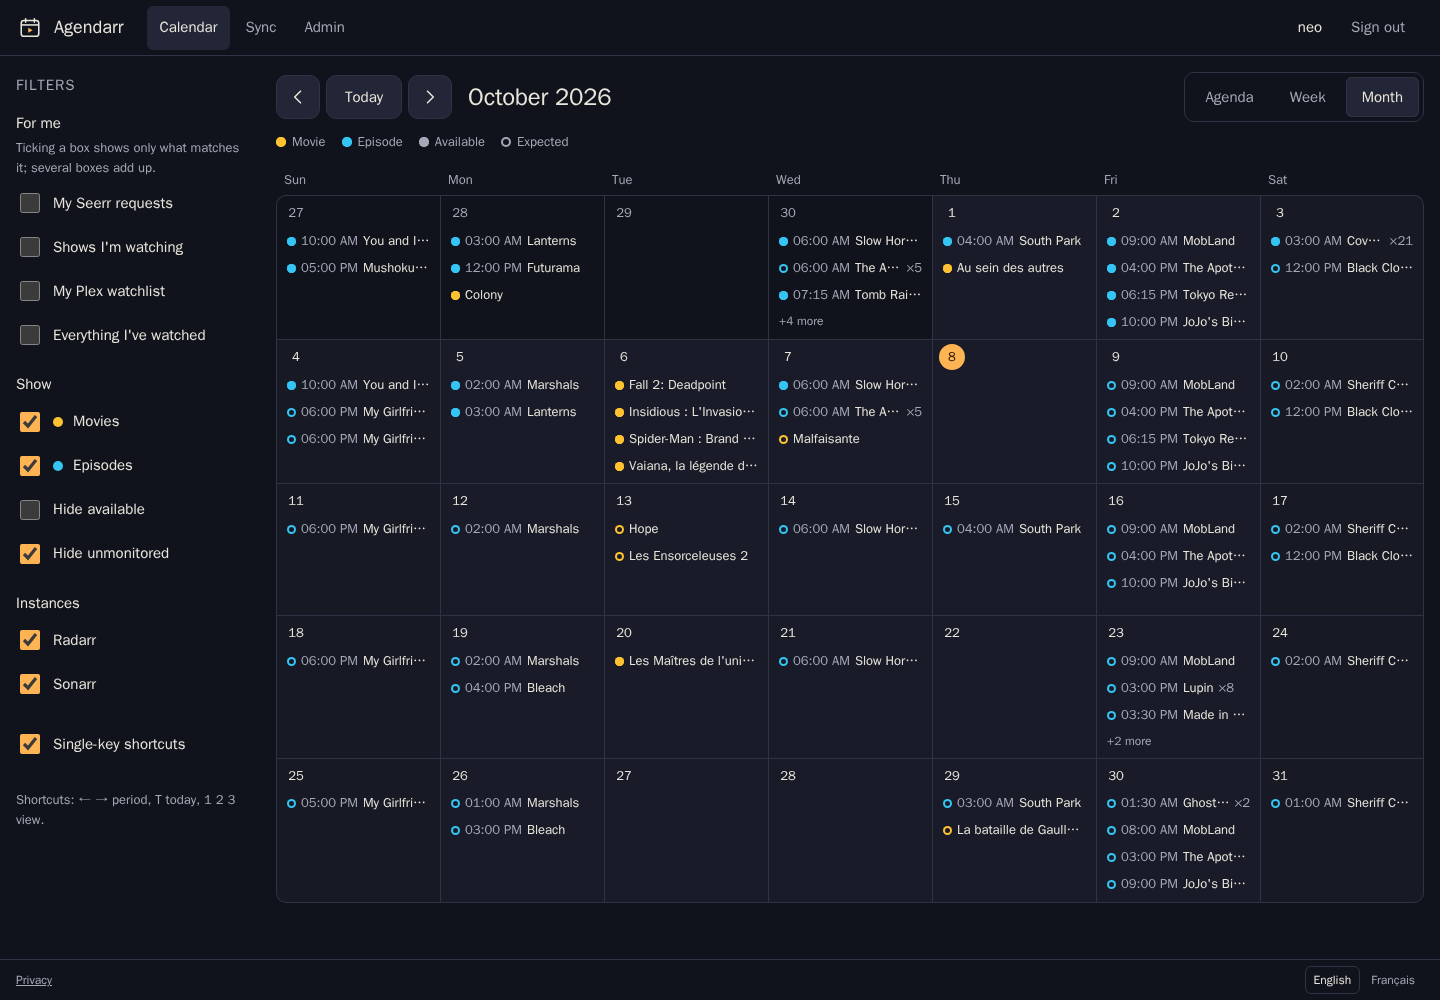
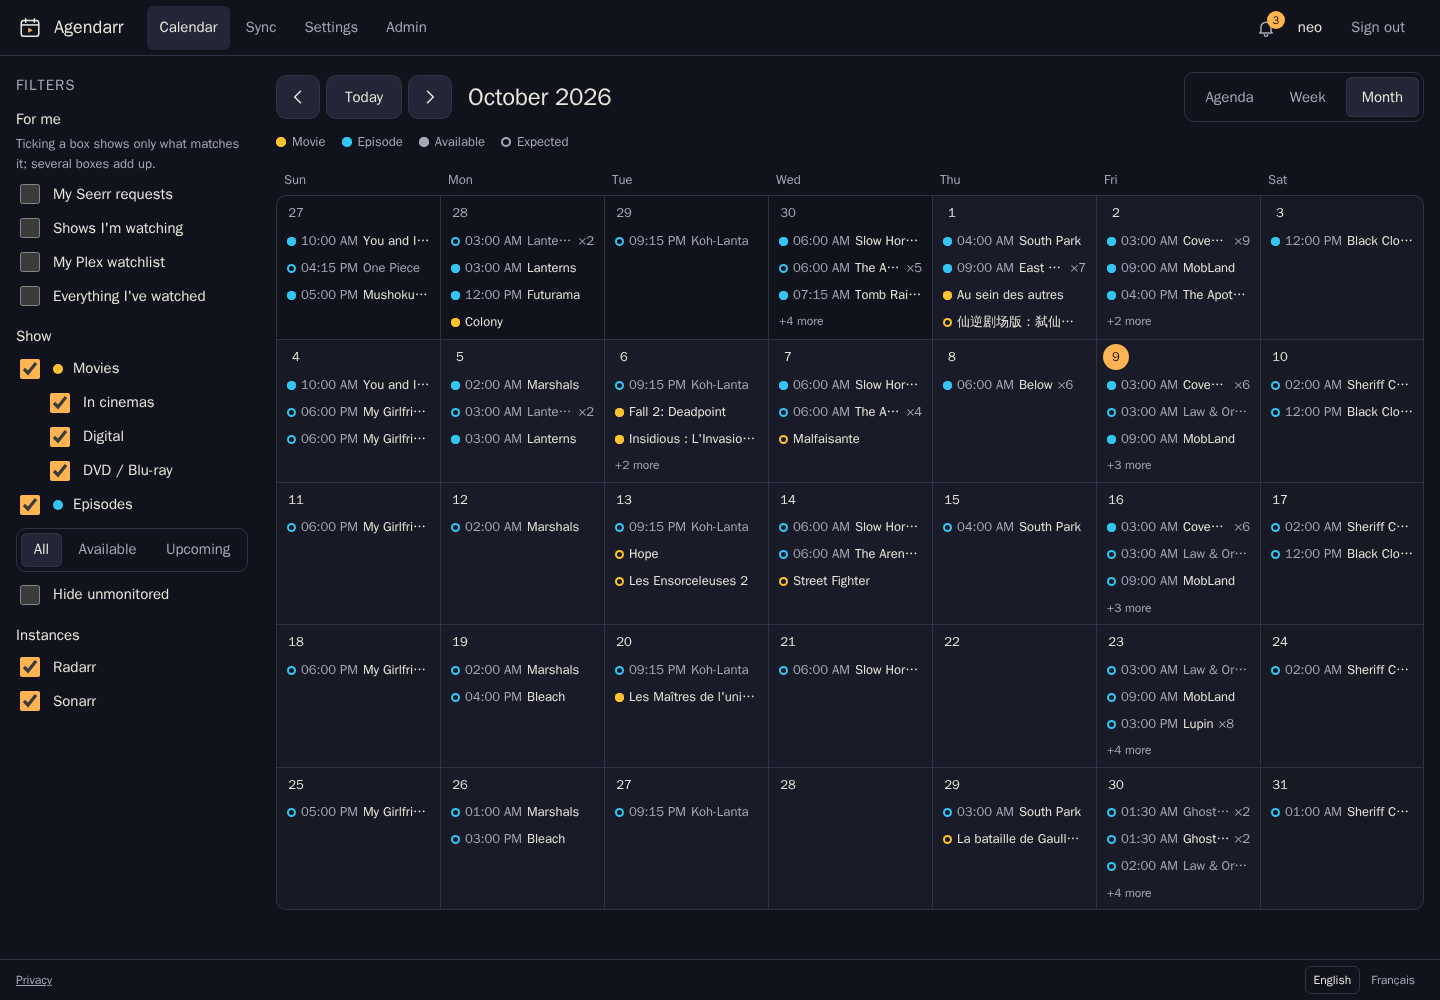
docs: README for v0.4; privacy page and "label in name" fixes
README: notifications, Settings, file formats from Plex (logos or
text), season rings, release-type filter, public addresses of
instances, outbound needs (plex.tv, browsers' push services), backups
holding the Web Push key, troubleshooting for Plex links and device
notifications, and how the watcher and Web Push work. New screenshots
(week view with a file card, season rings, bell, settings, phone
detail), the old ones retaken with the new navigation.

The privacy page said nothing left the server but for Plex; it now
names the browsers' push services (encrypted messages only) and lists
follows, notifications and push subscriptions among stored data.

axe (WCAG 2.2 AA) on every page and state, desktop and phone, light and
dark, French and English: 0 violations. It found one: calendar items
were named by a separate label that did not start with their visible
text (2.5.3, label in name); cards are now named by their own text and
month chips by their text followed by the rest for screen readers.

diff --git a/web/static/js/calendar.js b/web/static/js/calendar.js
@@ -200,19 +200,28 @@
 
   // --- items -------------------------------------------------------------------
   // Compact chip for month cells.
+  // Its accessible name starts with what it shows (time, title), then what a
+  // narrow cell leaves out, so a voice command naming the title hits it
+  // (WCAG 2.5.3, label in name).
   const chip = (e) => el("button", {
-    type: "button", class: `chip is-${e.kind} is-${statusOf(e)}`, "aria-label": describe(e), title: describe(e), "data-id": e.id,
+    type: "button", class: `chip is-${e.kind} is-${statusOf(e)}`, title: describe(e), "data-id": e.id,
     onclick: () => openDetail(e),
   },
   el("span", { class: "chip-dot", "aria-hidden": "true" }),
   timeOf(e) ? el("span", { class: "chip-time", text: timeOf(e) }) : null,
   el("span", { class: "chip-title", text: e.title }),
-  e.bundle ? el("span", { class: "chip-code", text: `×${e.bundle.length}` }) : null);
+  e.bundle ? el("span", { class: "chip-code", "aria-hidden": "true", text: `×${e.bundle.length}` }) : null,
+  el("span", { class: "sr-only", text: ", " + [
+    e.kind === "episode" ? (e.bundle ? `${code(e)} (${t("cal.episodes_n", { n: e.bundle.length })})` : code(e)) : null,
+    e.kind === "episode" && !e.bundle && e.epTitle ? e.epTitle : null,
+    ...tagsOf(e), t("cal.status_" + statusOf(e)),
+  ].filter(Boolean).join(", ") }));
 
   // Card with poster for week and agenda.
   const statusEl = (e) => el("span", { class: `status status-${statusOf(e)}`, text: t("cal.status_" + statusOf(e)) });
   const card = (e, size) => el("button", {
-    type: "button", class: `card card-${size} is-${e.kind} is-${statusOf(e)}`, "aria-label": describe(e), "data-id": e.id,
+    // Named by its own text (WCAG 2.5.3): title, episode, time, tags, status.
+    type: "button", class: `card card-${size} is-${e.kind} is-${statusOf(e)}`, "data-id": e.id,
     onclick: () => openDetail(e),
   },
   (() => {

diff --git a/README.md b/README.md
@@ -6,8 +6,8 @@
 
 **The release calendar for your Plex household.**
 
-Radarr, Sonarr and Seerr in one calendar. Everyone signs in with their Plex account
-and sees everything that's coming, or just what they care about.
+Radarr, Sonarr and Seerr in one calendar. Everyone signs in with their Plex account,
+sees what's coming or just what they care about, and gets told when it lands.
 
 [![CI](https://github.com/neotoxicfr/agendarr/actions/workflows/ci.yml/badge.svg?branch=dev)](https://github.com/neotoxicfr/agendarr/actions/workflows/ci.yml)
 [![Release](https://img.shields.io/badge/release-v0.4.0-blue)](https://github.com/neotoxicfr/agendarr/releases)
@@ -30,42 +30,61 @@ and only the admin can open them. Agendarr gives the whole household one calenda
 - **Everyone gets their own view.** *My Seerr requests*, *shows I'm watching*,
   *my Plex watchlist*, *everything I've watched*: each person ticks what they want.
 - **It goes where people already look.** A personal iCal link puts releases in
-  Apple Calendar, Google Calendar or Outlook, with that person's filters applied.
+  Apple Calendar, Google Calendar or Outlook, with that person's filters applied,
+  and a notification arrives when something they asked for is ready to watch.
 
 <table>
   <tr>
-    <td width="33%"><img src="docs/screenshots/phone-agenda.png" alt="Agenda view on a phone, with posters, episode codes and status"></td>
-    <td width="33%"><img src="docs/screenshots/phone-detail.png" alt="Release details in a bottom sheet on a phone"></td>
-    <td width="33%"><img src="docs/screenshots/phone-sync.png" alt="Calendar subscription page with Apple, Google and Outlook buttons"></td>
+    <td width="25%"><img src="docs/screenshots/phone-agenda.png" alt="Agenda view on a phone, with posters, episode codes and status"></td>
+    <td width="25%"><img src="docs/screenshots/phone-detail.png" alt="Release details on a phone: Ultra HD, Dolby Vision, HDR10+, Dolby Atmos logos and the audio and subtitle languages as flags"></td>
+    <td width="25%"><img src="docs/screenshots/phone-settings.png" alt="Settings page: formats as logos or text, See on links, keyboard, notification sources and this device"></td>
+    <td width="25%"><img src="docs/screenshots/phone-sync.png" alt="Calendar subscription page with Apple, Google and Outlook buttons"></td>
   </tr>
   <tr>
     <td align="center">Agenda on a phone</td>
-    <td align="center">Release details</td>
-    <td align="center">Subscribe in your calendar app</td>
+    <td align="center">What's in the file</td>
+    <td align="center">Settings</td>
+    <td align="center">Subscribe in your calendar</td>
   </tr>
 </table>
 
-![Week view on a desktop, with posters and availability badges](docs/screenshots/desktop-week.png)
+![Week view on a desktop with a movie's details open: the file's formats as logos, every audio track with its language and title, and buttons to open it in Plex or Radarr](docs/screenshots/desktop-week.png)
+
+<table>
+  <tr>
+    <td width="62%"><img src="docs/screenshots/desktop-season.png" alt="A season released at once: rings show how its six episodes split by video format, audio and subtitle languages, and each episode unfolds its own file card"></td>
+    <td width="38%"><img src="docs/screenshots/desktop-bell.png" alt="The notification bell open: an episode now available, a movie upgraded from 1080p to 4K with a French track added, a season of six episodes available"></td>
+  </tr>
+  <tr>
+    <td align="center">A whole season at a glance</td>
+    <td align="center">Notifications</td>
+  </tr>
+</table>
 
 ## Features
 
 - **Every instance in one place.** Add as many Radarr and Sonarr instances as you
   run (4K, anime…); a release seen by several of them shows once. Movies show
-  their cinema, digital and physical releases. Episodes show their air time in
-  each viewer's time zone, and season or series finales are flagged.
+  their cinema, digital and DVD / Blu-ray releases, which you can narrow down.
+  Episodes show their air time in each viewer's time zone, and premieres and
+  finales are flagged.
 - **Plex sign-in.** On first run, the owner of the Plex server becomes the
   administrator and their server is bound automatically. Access is re-checked
   every day, so someone you stop sharing with loses access too.
-- **What you will get, before you press play.** An available release shows its
-  quality, HDR, video and audio formats as Plex read them from the file (as
-  logos or text), and every audio and subtitle track (language as a flag,
-  title, forced, SDH). One click opens it in
-  Plex; administrators also get Radarr or Sonarr. TMDB, TVDB, IMDb and
-  Letterboxd links, each person picking the ones they use.
-- **Notifications.** Be told when something you requested, are watching or
-  follow from its detail sheet becomes available, or when its file is
-  upgraded (1080p to 4K, a French track added…). A bell keeps the history;
-  notifications reach the device too (Web Push), even with the app closed.
+- **What's in the file, before you press play.** An available release shows the
+  formats Plex found in the file itself, as official logos or plain text: 4K,
+  Dolby Vision, HDR10+, HEVC, Dolby Atmos, DTS-HD MA… Every audio and subtitle
+  track is listed with its language as a flag and its title (forced, SDH…).
+  A season released at once shows how its episodes split, and each episode
+  unfolds its own file.
+- **One click away.** Open a release in Plex; administrators also get Radarr or
+  Sonarr. *See on* links to TMDB, TVDB, IMDb, Letterboxd or MDBList, each
+  person picking the ones they use.
+- **Notifications.** Be told when something you requested in Seerr, are
+  watching, or follow from its detail sheet becomes available, or when its file
+  is upgraded (*Resolution: 1080p → 4K*, *Audio: + French*). A bell keeps the
+  history; with Web Push, notifications reach your phone or computer even with
+  Agendarr closed.
 - **Personal filters**, which can be combined: Seerr requests, shows watched in
   the last 90 days, Plex watchlist, full Plex history. Every release shows who
   requested it.
@@ -82,16 +101,17 @@ and only the admin can open them. Agendarr gives the whole household one calenda
   from the browser or picked in the footer.
 - **Small and private.** A single Go binary in a distroless image (amd64, arm64,
   armv7) and one SQLite file. API keys never reach the browser, and the server
-  only talks to your own servers and plex.tv.
+  only talks to your own servers, plex.tv and, for notifications people turn on,
+  their browser's push service.
 
 ## Requirements
 
 - A **Plex Media Server**. You sign in with the account that owns it.
 - **Radarr** and/or **Sonarr** (API v3; tested with Radarr 6 and Sonarr 4).
-- Optional: **Seerr** (or Overseerr / Jellyseerr) for the *my requests* filter
-  and the *requested by* names.
-- A reverse proxy with **HTTPS** if you want the app to install on phones and
-  calendar apps to subscribe.
+- Optional: **Seerr** (or Overseerr / Jellyseerr) for the *my requests* filter,
+  the *requested by* names and notifications about requests.
+- A reverse proxy with **HTTPS** if you want the app to install on phones,
+  calendar apps to subscribe and notifications to reach devices.
 
 ## Quick start
 
@@ -134,7 +154,11 @@ has the same file with comments.
    Agendarr copies the servers Seerr already knows, API keys included. You can
    also add Radarr and Sonarr by hand (the API key is in *Settings › General* of
    each app). **Test connection** checks each one before saving.
-3. **Share the URL** with your Plex users. They sign in with Plex, and that's it.
+3. Optional: give each Radarr and Sonarr instance its **public address**
+   (e.g. `https://radarr.example.com`) so administrators get *Open in Radarr /
+   Sonarr* links. *Import Radarr and Sonarr* fills it from Seerr when it knows it.
+4. **Share the URL** with your Plex users. They sign in with Plex, and that's it.
+   Each person picks their display and notification choices in **Settings**.
 
 <p align="center">
   <img src="docs/screenshots/desktop-admin.png" width="80%" alt="Admin page listing the Radarr, Sonarr and Seerr instances, with an Import Radarr and Sonarr button">
@@ -188,6 +212,8 @@ server {
 
 Calendar apps fetch the iCal link from their own servers, so don't put an IP
 allowlist in front of `/ics/`, or Google and Outlook won't be able to read it.
+Agendarr itself needs outbound HTTPS to plex.tv and, for Web Push, to the
+browsers' push services (Google, Mozilla, Apple, Microsoft).
 
 ## Configuration
 
@@ -196,8 +222,8 @@ app can't work out by itself:
 
 | Variable | Default | Purpose |
 | --- | --- | --- |
-| `AGENDARR_BASE_URL` | derived from requests | Public URL, used for the Plex sign-in return and iCal links. Set it behind a proxy. |
-| `AGENDARR_PLEX_SERVER_URL` | addresses advertised by plex.tv | How Agendarr reaches Plex for the history-based filters, e.g. `http://plex:32400` on a shared Docker network |
+| `AGENDARR_BASE_URL` | derived from requests | Public URL, used for the Plex sign-in return, iCal links and as the contact push services see. Set it behind a proxy. |
+| `AGENDARR_PLEX_SERVER_URL` | addresses advertised by plex.tv | How Agendarr reaches Plex for the history-based filters, file formats, tracks and *Open in Plex* links, e.g. `http://plex:32400` on a shared Docker network |
 | `AGENDARR_LISTEN` | `:8080` | HTTP listen address |
 | `AGENDARR_DATA_DIR` | `/data` | Database, encryption key, poster cache |
 | `AGENDARR_SECURE_COOKIES` | `true` when the base URL is https | Force the `Secure` cookie flag on or off |
@@ -210,8 +236,9 @@ docker compose pull && docker compose up -d
 ```
 
 Database migrations run on start. To back up, copy the data volume while the
-container is stopped. Keep `secret.key` with `agendarr.db`: tokens and API
-keys are encrypted with it, and a database without its key can't be read.
+container is stopped. Keep `secret.key` with `agendarr.db`: tokens, API keys
+and the Web Push key are encrypted with it, and a database without its key
+can't be read (people would have to turn notifications on again).
 
 ## Troubleshooting
 
@@ -224,6 +251,14 @@ keys are encrypted with it, and a database without its key can't be read.
 - **Google Calendar shows nothing yet.** Google refreshes subscribed calendars
   every 12 to 24 hours. Apple and Outlook refresh about every hour.
 - **The app doesn't offer to install.** Installing requires HTTPS.
+- **No *Open in Plex* button, no tracks.** The release is not in your Plex
+  library, or Agendarr cannot reach the Plex server: see
+  `AGENDARR_PLEX_SERVER_URL`. The library is indexed at startup and every 30
+  minutes, so a file added a moment ago may take that long.
+- **Notifications don't reach a device.** Turn on *Notifications on this
+  device* in Settings on that device and allow them when the browser asks. On
+  iPhone and iPad, add Agendarr to the home screen first (Safari only allows
+  notifications for installed apps). In-app, the bell works everywhere.
 
 ## How it works
 
@@ -232,7 +267,16 @@ keys are encrypted with it, and a database without its key can't be read.
   named in a warning. Posters go through Agendarr, so API keys never reach the
   browser.
 - Seerr requests are indexed every ten minutes. Plex history is read from your
-  server with the owner's token and resolved to TMDB/TVDB/IMDb ids once.
+  server with the owner's token and resolved to TMDB/TVDB/IMDb ids once. The
+  Plex library is indexed by those ids every 30 minutes; a detail sheet then
+  asks Plex for that item's file and tracks.
+- Every five minutes a watcher compares each release's file (from a month back
+  to two weeks ahead) with the one it saw before: a file that appears is
+  *available*, one that changes on the same instance is a *new version*. It
+  never waits on Plex or Seerr; what it cannot match yet is retried.
+- Notifications are encrypted for each browser (RFC 8291) and signed with the
+  server's own key (VAPID, RFC 8292), using Go's standard library only. Only
+  the browsers' push services are accepted as destinations.
 - Everything lives in one SQLite file. Plex tokens and API keys are encrypted
   with AES-256-GCM. See [SECURITY.md](SECURITY.md) and the in-app privacy page.
 
